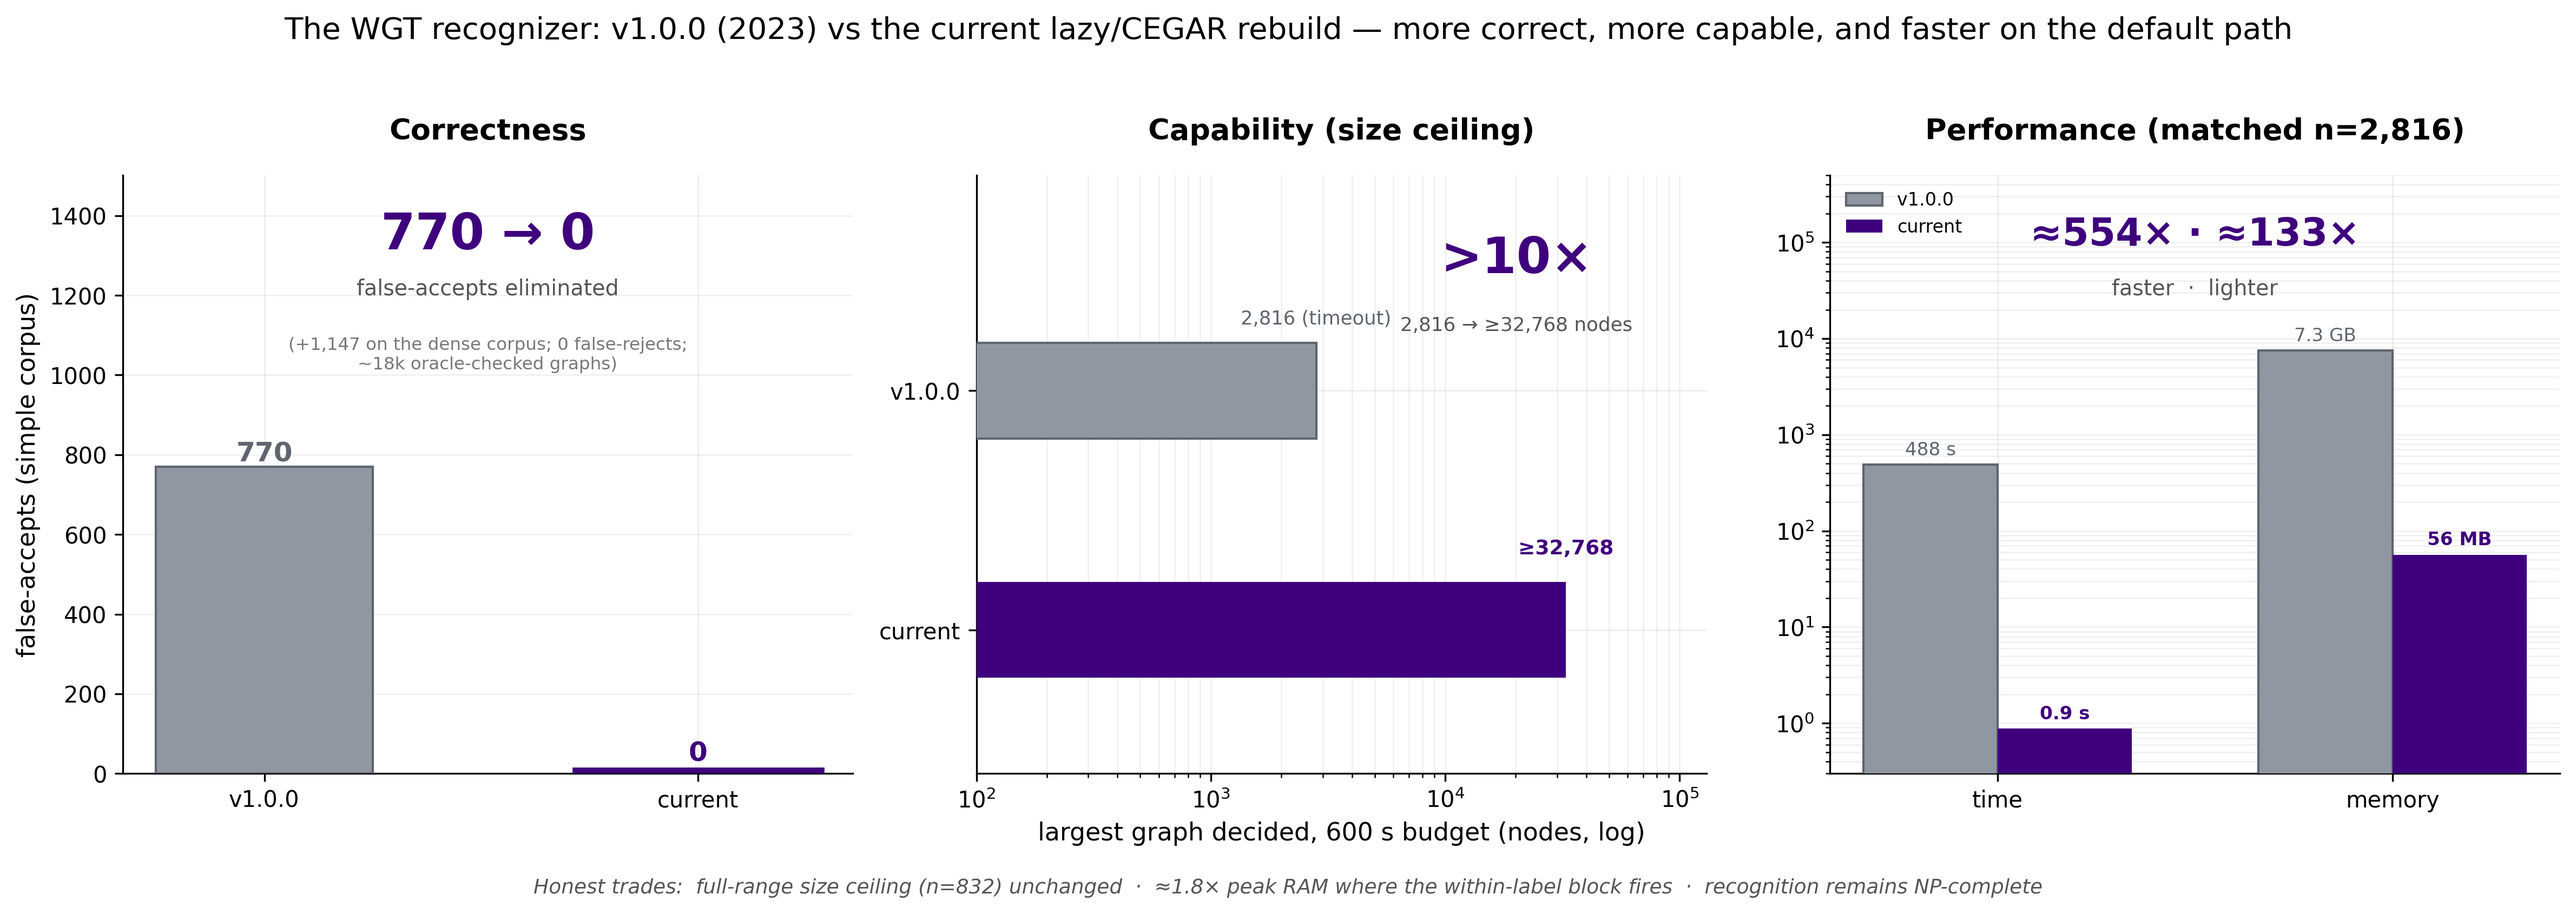
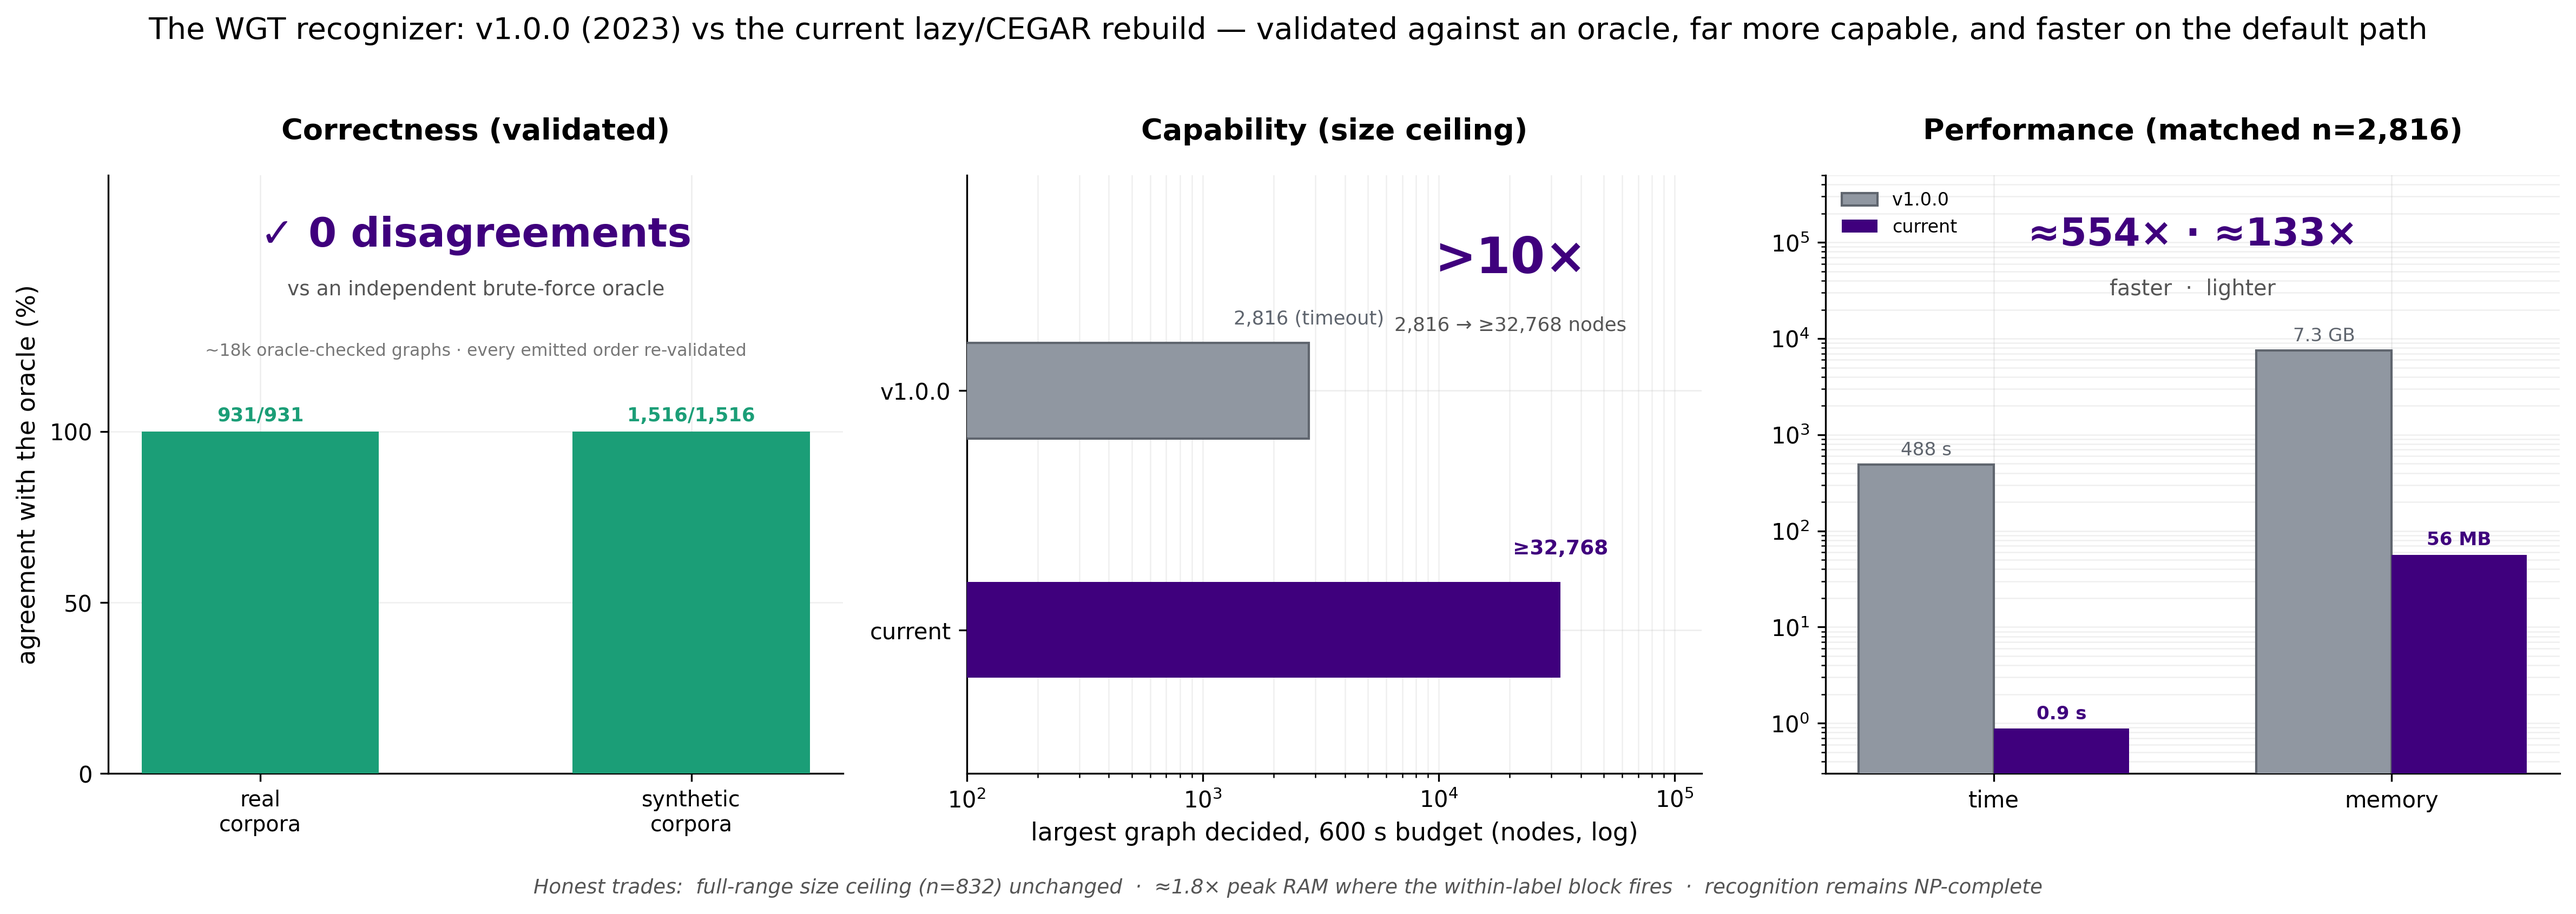
benchmark(report_figs): reframe correctness->validation; add mechanism figure; verify 53/53
Correctness is reframed from a v1.0.0-error comparison to validation of the current algorithm
against the independent oracle (no v1.0.0 false-accepts in the figures):
  - hero panel A 770->0  ->  "Correctness (validated): 0 disagreements vs the oracle"
  - F1_correctness (false-accept bars)  ->  F2_validation (verdict-agreement grid,
    REAL+SYNTH x SMT/PERM/EXP, 0 disagreements over 2,447 graphs; static_metrics.json)

New mechanism figure (Fmechanism, for the in-depth "why faster" section): (A) A3 constraints the
lazy default actually builds vs the full O(n^2) universe across n (3,835 of 402,722,292 at
n=32,768, ~99.999% never built; rounds ~5-8) from results_lazy_ceiling.csv; (B,C) the sparse
full-range encoding atoms (E^2 -> E^1.6) folded in from the old atoms figure (Fatoms removed).

verify_report_numbers.py: +5 checks (dnfa n=32768 A3 built 5926; lazy rounds 5-8; oracle
verdict-agreement 0 disagreements over 2,447; every decider agrees) -> 53/53 PASS. v1.0.0 stays
the speed/memory/scale baseline only.

Claude-Session: https://claude.ai/code/session_017cBZycwsw4KycdZXrEiyN7

diff --git a/benchmark/report_figs/plot_report.py b/benchmark/report_figs/plot_report.py
@@ -159,33 +159,74 @@ def _lazy_point(rows, fam, backend, n):
 
 
 # ============================================================ PANEL DRAWS
-def draw_correctness(ax):
-    rows = load_csv(os.path.join(DATA, "corr_oldnew.csv"))
-    order = ["smt", "perm", "perm-e", "full"]
-    disp = {"smt": "default\n(SMT)", "perm": "permutation\n(-s p)",
-            "perm-e": "exhaustive\n(-s p -e)", "full": "full-range\n(-f)"}
+def draw_validation(ax):
+    """Verdict agreement vs the independent brute-force oracle: corpora x deciders, 0 disagreements.
+    A validation grid (the recognizer's SMT and permutation backends AND the rebuilt exponential
+    reference all agree with the oracle on every decided graph) -- not a version comparison."""
+    sm = json.load(open(os.path.join(DATA, "static_metrics.json")))["verdict_agreement"]
+    corpora = ["REAL", "SYNTH"]
+    deciders = ["SMT", "PERM", "EXP"]
+    decider_disp = {"SMT": "recognizer\n(SMT / lazy)", "PERM": "recognizer\n(permutation)",
+                    "EXP": "exponential\nreference"}
+    teal = VERDICT["WG"]
+    ax.set_xlim(-0.5, len(deciders) - 0.5); ax.set_ylim(-0.5, len(corpora) - 0.5)
+    for i, cpr in enumerate(corpora):
+        for j, dn in enumerate(deciders):
+            agree = int(sm[cpr][dn][0]); decided = int(sm[cpr]["graphs"])
+            ax.add_patch(plt.Rectangle((j - 0.46, i - 0.42), 0.92, 0.84, facecolor="white",
+                                       edgecolor="#d9d9d9", lw=1.0, zorder=1))
+            ax.add_patch(plt.Rectangle((j - 0.46, i - 0.42), 0.05, 0.84, facecolor=teal,
+                                       edgecolor="none", zorder=2))
+            ax.text(j, i + 0.10, f"{agree}/{decided}", ha="center", va="center",
+                    fontsize=13, fontweight="bold", color="#222", zorder=3)
+            ax.text(j, i - 0.22, "✓ agree", ha="center", va="center", fontsize=9, color=teal, zorder=3)
+    ax.set_xticks(range(len(deciders))); ax.set_xticklabels([decider_disp[d] for d in deciders])
+    ax.set_yticks(range(len(corpora)))
+    ax.set_yticklabels([f"{c}\n({int(sm[c]['graphs'])} graphs)" for c in corpora])
+    ax.invert_yaxis()
+    for sp in ax.spines.values():
+        sp.set_visible(False)
+    ax.tick_params(length=0); ax.grid(False)
+    ax.set_title(f"Verdict agreement vs the brute-force oracle — {sm['total_disagreements']} "
+                 f"disagreements\n({sm['total_graphs']} graphs: {sm['total_wg']} Wheeler, "
+                 f"{sm['total_nonwg']} non-Wheeler; every accepted order independently re-validated)",
+                 fontsize=11)
 
-    def fa(binary, mode, corpus="simple"):
-        r = next((x for x in rows if x["binary"] == binary and x["corpus"] == corpus
-                  and x["mode"] == mode), None)
-        return int(r["false_accept"]) if r else 0
 
-    old_fa = [fa("v1.0.0", m) for m in order]
-    new_fa = [fa("current", m) for m in order]
-    x = np.arange(len(order)); w = 0.38
-    b1 = ax.bar(x - w / 2, old_fa, w, color=BASE_C, edgecolor=BASE_EDGE, label=S.binary_label("pre41"))
-    b2 = ax.bar(x + w / 2, new_fa, w, color=ACCENT, label=S.binary_label("new"))
-    ax.bar_label(b1, padding=2, fontsize=10, color=BASE_EDGE, fontweight="bold")
-    ax.bar_label(b2, labels=["0", "0", "0", "0"], padding=2, fontsize=10, fontweight="bold", color=ACCENT)
-    ax.set_ylabel("false-accepts  (non-Wheeler graphs declared Wheeler)")
-    ax.set_xticks(x); ax.set_xticklabels([disp[m] for m in order], fontsize=9.5)
-    ax.legend(loc="upper right")
-    ax.margins(y=0.22)
-    ax.annotate("the permutation backends also false-accept\n"
-                "1,147 non-Wheeler graphs on the dense corpus;\ncurrent = 0 there too",
-                xy=(1, old_fa[1]), xytext=(1.55, max(old_fa) * 0.72), fontsize=8.5, color=BASE_EDGE,
-                ha="left", va="center",
-                arrowprops=dict(arrowstyle="->", color=BASE_EDGE, lw=1))
+def draw_mechanism_compression(ax):
+    """How little the lazy/CEGAR default builds: A3 constraints materialized vs the full O(n^2) pair
+    universe, across n. The built curve stays ~linear (a few thousand) while the universe grows
+    quadratically (hundreds of millions); at n=32,768 it is 3,835 of 402,722,292 (~99.999% never built)."""
+    cur = load_csv(os.path.join(LAZY, "results_lazy_ceiling.csv"))
+    for fam in ("complete", "dnfa"):
+        ls, mk = S.FAMILY_STYLE[fam]
+        uni, built = [], []
+        for r in cur or []:
+            if r.get("family") != fam or r.get("backend") != "lazy" or r.get("verdict") != "WG":
+                continue
+            n = fnum(r.get("n")); pu = fnum(r.get("pair_universe")); ma = fnum(r.get("materialized_a3"))
+            if n and pu and ma:
+                uni.append((n, pu)); built.append((n, ma))
+        uni.sort(); built.sort()
+        if uni:
+            xs, ys = zip(*uni)
+            ax.plot(xs, ys, marker=mk, ms=4, lw=2.0, color=BASE_C, ls=ls,
+                    label=f"full $O(n^2)$ A3 universe — {S.FAMILY_LABEL[fam]}")
+        if built:
+            xs, ys = zip(*built)
+            ax.plot(xs, ys, marker=mk, ms=4, lw=2.4, color=ACCENT, ls=ls,
+                    label=f"A3 actually built (lazy) — {S.FAMILY_LABEL[fam]}")
+    ax.set_xscale("log"); ax.set_yscale("log")
+    ax.set_xlabel("graph size  n  (nodes, log)")
+    ax.set_ylabel("within-label (A3) constraints (log)")
+    ax.set_title("(A) The lazy default builds almost none of the $O(n^2)$ formula")
+    ax.annotate("n=32,768: 3,835 built\nof 402,722,292\n(~99.999% never built)",
+                xy=(32768, 3835), xytext=(2200, 9e6), fontsize=8.5, color=ACCENT, fontweight="bold",
+                arrowprops=dict(arrowstyle="->", color=ACCENT, lw=1.2))
+    ax.text(0.03, 0.06, "lazy/CEGAR converges in ≈5–8 rounds at every size",
+            transform=ax.transAxes, fontsize=7.8, color="#555", style="italic")
+    ax.legend(fontsize=7.4, loc="upper left")
+    ax.grid(True, which="both", alpha=0.22)
 
 
 def draw_lazy(ax, metric):
@@ -373,7 +414,7 @@ def draw_atoms_scatter(ax):
                 label=f"{S.binary_label(lab)}   $\\propto E^{{{b:.2f}}}$")
     ax.set_xscale("log"); ax.set_yscale("log")
     ax.set_xlabel("edges (log)"); ax.set_ylabel("SMT assertions (A2+A3, log)")
-    ax.set_title("(A) De Bruijn DNA: dense $E^{2}$ → sparse $E^{1.6}$\n(within-label block fires)")
+    ax.set_title("(B) Full-range atoms: dense $E^{2}$ → sparse $E^{1.6}$\n(De Bruijn DNA, block fires)")
     ax.legend(fontsize=8.5, loc="upper left")
     ax.grid(True, which="both", alpha=0.2)
 
@@ -392,7 +433,7 @@ def draw_atoms_composition(ax):
     ax.set_yscale("log")
     ax.set_xticks(x); ax.set_xticklabels([S.TYPE_LABEL[t].replace(" ", "\n") for t in types], fontsize=8.5)
     ax.set_ylabel("median SMT assertions (log)")
-    ax.set_title("(B) Where the atoms live: A2 vs A3, by type\n(current shrinks whichever dominates)")
+    ax.set_title("(C) Where the atoms live: A2 vs A3, by type\n(current shrinks whichever dominates)")
     ax.legend(fontsize=7, loc="upper right", ncol=1)
     ax.grid(True, axis="y", which="both", alpha=0.2)
 
@@ -466,20 +507,21 @@ def draw_repair(ax):
 
 
 # ============================================================ HERO SCORECARD
-def _hero_correctness(ax):
-    ax.set_title("Correctness", fontsize=13, fontweight="bold", pad=16)
-    ax.bar([0], [770], 0.5, color=BASE_C, edgecolor=BASE_EDGE, zorder=3)
-    ax.bar([1], [0], 0.5, color=ACCENT, zorder=3)
-    ax.plot([0.72, 1.28], [4, 4], color=ACCENT, lw=4, zorder=4)
-    ax.text(0, 770, "770", ha="center", va="bottom", fontsize=12, fontweight="bold", color=BASE_EDGE)
-    ax.text(1, 18, "0", ha="center", va="bottom", fontsize=12, fontweight="bold", color=ACCENT)
-    ax.set_xticks([0, 1]); ax.set_xticklabels(["v1.0.0", "current"], fontsize=10)
-    ax.set_ylim(0, 770 * 1.95); ax.set_ylabel("false-accepts (simple corpus)")
-    S.callout(ax, "770 → 0", color=ACCENT, fontsize=22, xy=(0.5, 0.90))
-    ax.text(0.5, 0.80, "false-accepts eliminated", transform=ax.transAxes, ha="center",
-            fontsize=9.5, color="#555")
-    ax.text(0.5, 0.73, "(+1,147 on the dense corpus; 0 false-rejects;\n~18k oracle-checked graphs)",
-            transform=ax.transAxes, ha="center", va="top", fontsize=7.8, color="#777")
+def _hero_validation(ax):
+    # Validation badge: the recognizer is checked against an independent oracle (0 disagreements),
+    # not a v1.0.0-error comparison.
+    ax.set_title("Correctness (validated)", fontsize=13, fontweight="bold", pad=16)
+    bars = ax.bar([0, 1], [100, 100], 0.55, color=VERDICT["WG"], zorder=3)
+    for b, lbl in zip(bars, ["931/931", "1,516/1,516"]):
+        ax.text(b.get_x() + b.get_width() / 2, 102, lbl, ha="center", va="bottom",
+                fontsize=8.5, color=VERDICT["WG"], fontweight="bold")
+    ax.set_xticks([0, 1]); ax.set_xticklabels(["real\ncorpora", "synthetic\ncorpora"], fontsize=9.5)
+    ax.set_ylim(0, 175); ax.set_yticks([0, 50, 100]); ax.set_ylabel("agreement with the oracle (%)")
+    S.callout(ax, "✓ 0 disagreements", color=ACCENT, fontsize=18, xy=(0.5, 0.90))
+    ax.text(0.5, 0.80, "vs an independent brute-force oracle", transform=ax.transAxes, ha="center",
+            fontsize=9, color="#555")
+    ax.text(0.5, 0.72, "~18k oracle-checked graphs · every emitted order re-validated",
+            transform=ax.transAxes, ha="center", va="top", fontsize=7.6, color="#777")
     ax.grid(True, axis="y", alpha=0.2)
 
 
@@ -519,9 +561,10 @@ def _hero_performance(ax):
 
 def fig_hero():
     fig, axes = plt.subplots(1, 3, figsize=(16, 5.2))
-    _hero_correctness(axes[0]); _hero_capability(axes[1]); _hero_performance(axes[2])
+    _hero_validation(axes[0]); _hero_capability(axes[1]); _hero_performance(axes[2])
     fig.suptitle("The WGT recognizer: v1.0.0 (2023) vs the current lazy/CEGAR rebuild — "
-                 "more correct, more capable, and faster on the default path", fontsize=13.5, y=1.02)
+                 "validated against an oracle, far more capable, and faster on the default path",
+                 fontsize=13.5, y=1.02)
     fig.text(0.5, -0.02,
              "Honest trades:  full-range size ceiling (n=832) unchanged  ·  ≈1.8× peak RAM where the "
              "within-label block fires  ·  recognition remains NP-complete",
@@ -538,12 +581,10 @@ def _save(fig, name):
     print(f"wrote {p}")
 
 
-def fig_correctness():
-    fig, ax = plt.subplots(figsize=(8.4, 5.4))
-    draw_correctness(ax)
-    fig.suptitle("Correctness vs the brute-force oracle — v1.0.0's permutation backends false-accept\n"
-                 "non-Wheeler graphs; the current version is sound on every backend", fontsize=12)
-    _save(fig, "F1_correctness.png")
+def fig_validation():
+    fig, ax = plt.subplots(figsize=(8.8, 5.0))
+    draw_validation(ax)
+    _save(fig, "F2_validation.png")
 
 
 def fig_lazy_ceiling():
@@ -554,12 +595,12 @@ def fig_lazy_ceiling():
     _save(fig, "Flazy_ceiling.png")
 
 
-def fig_atoms():
-    fig, axes = plt.subplots(1, 2, figsize=(12.5, 5.3))
-    draw_atoms_scatter(axes[0]); draw_atoms_composition(axes[1])
-    fig.suptitle("Encoding size in atoms — the sparsification, measured directly "
-                 "(analytical count ≡ z3 s.assertions().size())", fontsize=12)
-    _save(fig, "Fatoms_encoding.png")
+def fig_mechanism():
+    fig, axes = plt.subplots(1, 3, figsize=(17.5, 5.2))
+    draw_mechanism_compression(axes[0]); draw_atoms_scatter(axes[1]); draw_atoms_composition(axes[2])
+    fig.suptitle("Why the new algorithm is faster — the lazy default builds almost none of the "
+                 "$O(n^2)$ formula, and the full-range encoding is sub-quadratic in atoms", fontsize=12.5)
+    _save(fig, "Fmechanism.png")
 
 
 def fig_performance():
@@ -582,10 +623,10 @@ def fig_practicality():
 def main():
     figs = [
         ("hero", fig_hero),
-        ("correctness", fig_correctness),
+        ("validation", fig_validation),
         ("lazy", fig_lazy_ceiling),
-        ("atoms", fig_atoms),
         ("performance", fig_performance),
+        ("mechanism", fig_mechanism),
         ("practicality", fig_practicality),
     ]
     only = sys.argv[1:]

diff --git a/benchmark/report_figs/compose_figs.py b/benchmark/report_figs/compose_figs.py
@@ -4,11 +4,11 @@ plot_report.py) into the khchao.com site asset tree. No recompositing: each repo
 already one publication-grade matplotlib figure with shared fonts/DPI, so we just copy it.
 
   Fhero.png            -> rfig_hero.png          (§3.0  graphical-abstract scorecard)
-  F1_correctness.png   -> rfig_correctness.png   (§3.1  Axis I — correctness)
+  F2_validation.png    -> rfig_validation.png    (§3.1  Axis I — validation vs the oracle)
   Flazy_ceiling.png    -> rfig_lazy_ceiling.png  (§3.2  Axis II — THE headline)
-  Fatoms_encoding.png  -> rfig_atoms.png         (§3.3  Axis III — the mechanism)
   Fperformance.png     -> rfig_performance.png   (§3.3  Axis III — speed/memory/per-type 2x2)
-  Fpracticality.png    -> rfig_practicality.png  (§3.4  practicality + repair)
+  Fmechanism.png       -> rfig_mechanism.png     (§4    how the speedup works, in depth)
+  Fpracticality.png    -> rfig_practicality.png  (§5    practicality + repair)
 
 The draft blog (wgt-verified) keeps its existing assets; it is not part of the report deploy.
 
@@ -23,12 +23,12 @@ SITE = "/ccb/salz3/kh.chao/Kuanhao-Chao.github.io/src/assets"
 REPORT_DIR = os.path.join(SITE, "reports", "wgt-technical-report")
 
 REPORT_FIGS = {
-    "Fhero.png":           "rfig_hero.png",
-    "F1_correctness.png":  "rfig_correctness.png",
-    "Flazy_ceiling.png":   "rfig_lazy_ceiling.png",
-    "Fatoms_encoding.png": "rfig_atoms.png",
-    "Fperformance.png":    "rfig_performance.png",
-    "Fpracticality.png":   "rfig_practicality.png",
+    "Fhero.png":         "rfig_hero.png",
+    "F2_validation.png": "rfig_validation.png",
+    "Flazy_ceiling.png": "rfig_lazy_ceiling.png",
+    "Fperformance.png":  "rfig_performance.png",
+    "Fmechanism.png":    "rfig_mechanism.png",
+    "Fpracticality.png": "rfig_practicality.png",
 }
 
 

diff --git a/benchmark/report_figs/verify_report_numbers.py b/benchmark/report_figs/verify_report_numbers.py
@@ -100,6 +100,21 @@ c32 = cei[("complete","32768","lazy")]
 chk("n=32768 A3 built", c32["materialized_a3"], 3835, int(c32["materialized_a3"])==3835)
 chk("n=32768 A3 universe", c32["pair_universe"], 402722292, int(c32["pair_universe"])==402722292)
 chk("n=32768 lazy wall (s)", round(fnum(c32["wall"]),1), 60.5, approx(fnum(c32["wall"]),60.5,0.02))
+d32 = cei[("dnfa","32768","lazy")]
+chk("n=32768 dnfa A3 built (Fig5)", d32["materialized_a3"], 5926, int(d32["materialized_a3"])==5926)
+chk("lazy rounds stay 5-8 (all n, both fam)",
+    f"{min(int(r['rounds']) for r in cei.values() if r['backend']=='lazy' and r['rounds'])}-"
+    f"{max(int(r['rounds']) for r in cei.values() if r['backend']=='lazy' and r['rounds'])}",
+    "≈5-8", all(3 <= int(r['rounds']) <= 9 for r in cei.values() if r['backend']=='lazy' and r['rounds']))
+
+# verdict agreement vs the oracle (Fig 2 validation): 0 disagreements over the cross-check corpus
+sm = json.load(open(os.path.join(DATA, "static_metrics.json")))["verdict_agreement"]
+chk("oracle verdict-agreement disagreements (Fig2)", sm["total_disagreements"], 0, sm["total_disagreements"]==0)
+chk("oracle cross-check graphs (Fig2)", sm["total_graphs"], 2447, sm["total_graphs"]==2447)
+chk("every decider agrees (REAL+SYNTH x SMT/PERM/EXP)",
+    "all N/N", "0 disagree",
+    all(int(sm[c][d][1])==0 and int(sm[c][d][0])==int(sm[c]["graphs"])
+        for c in ("REAL","SYNTH") for d in ("SMT","PERM","EXP")))
 
 # ============================================================ 3. PERFORMANCE — atoms
 print("\n"+"="*78); print("AXIS III — PERFORMANCE: encoding atoms  (atom_counts.csv)"); print("="*78)
